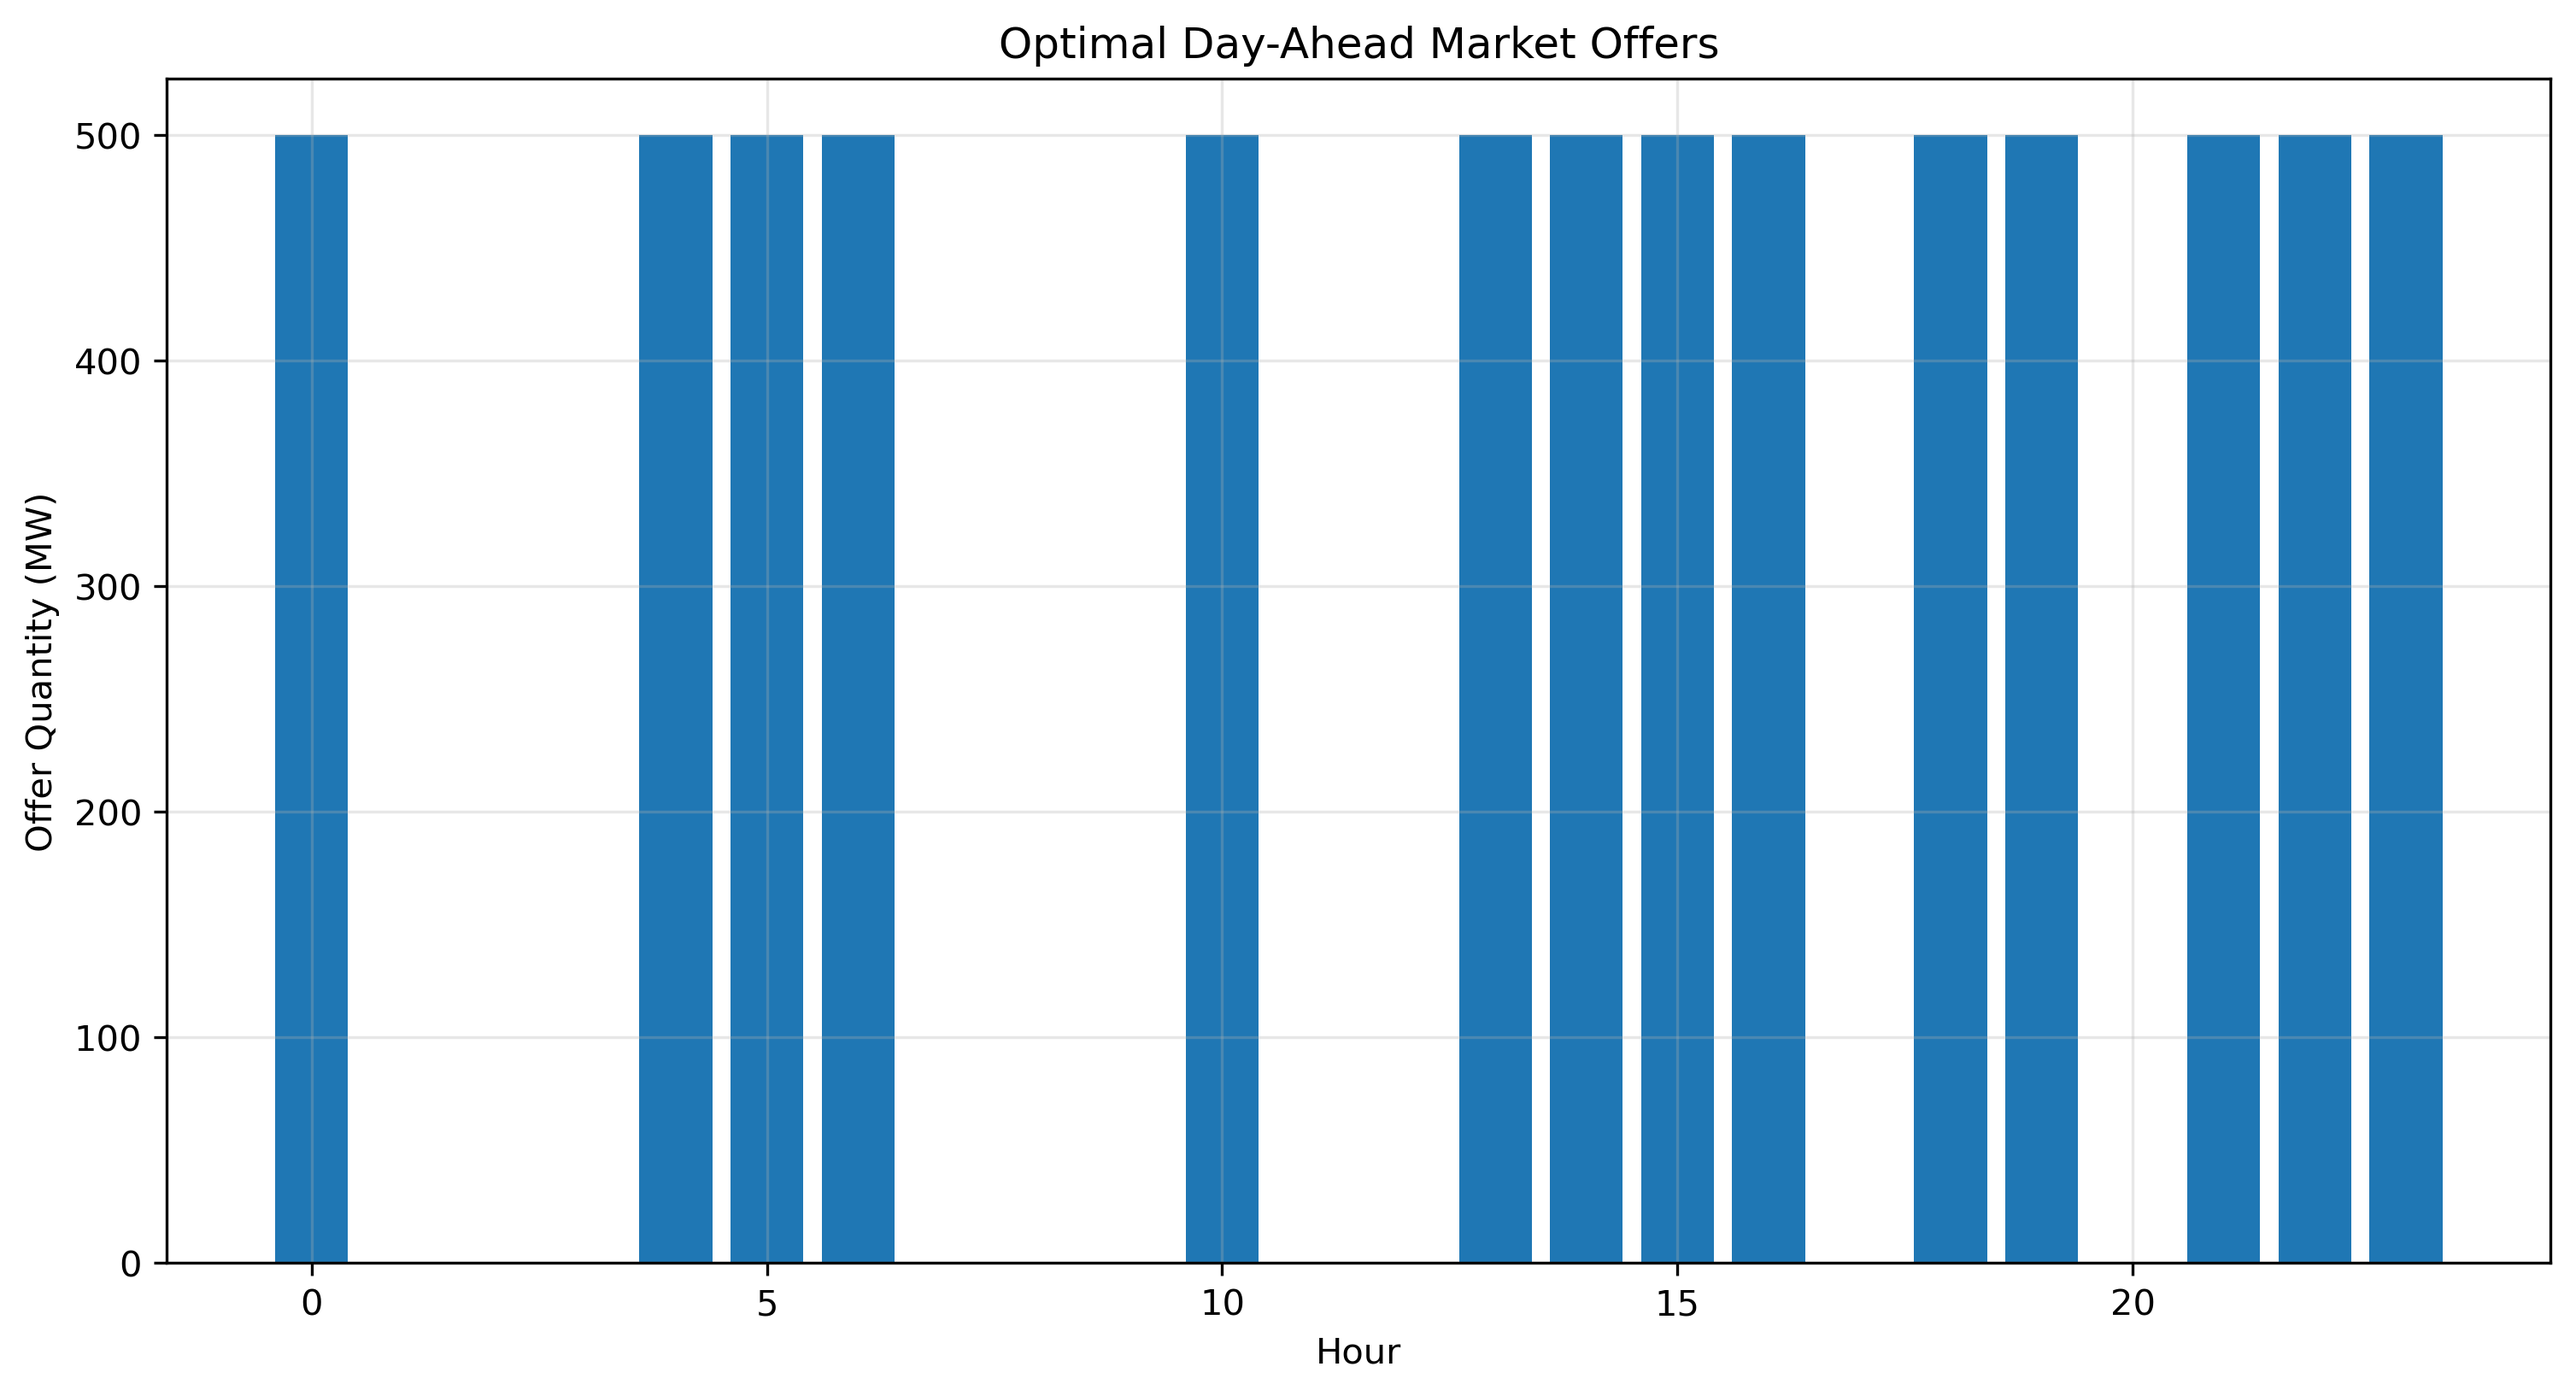
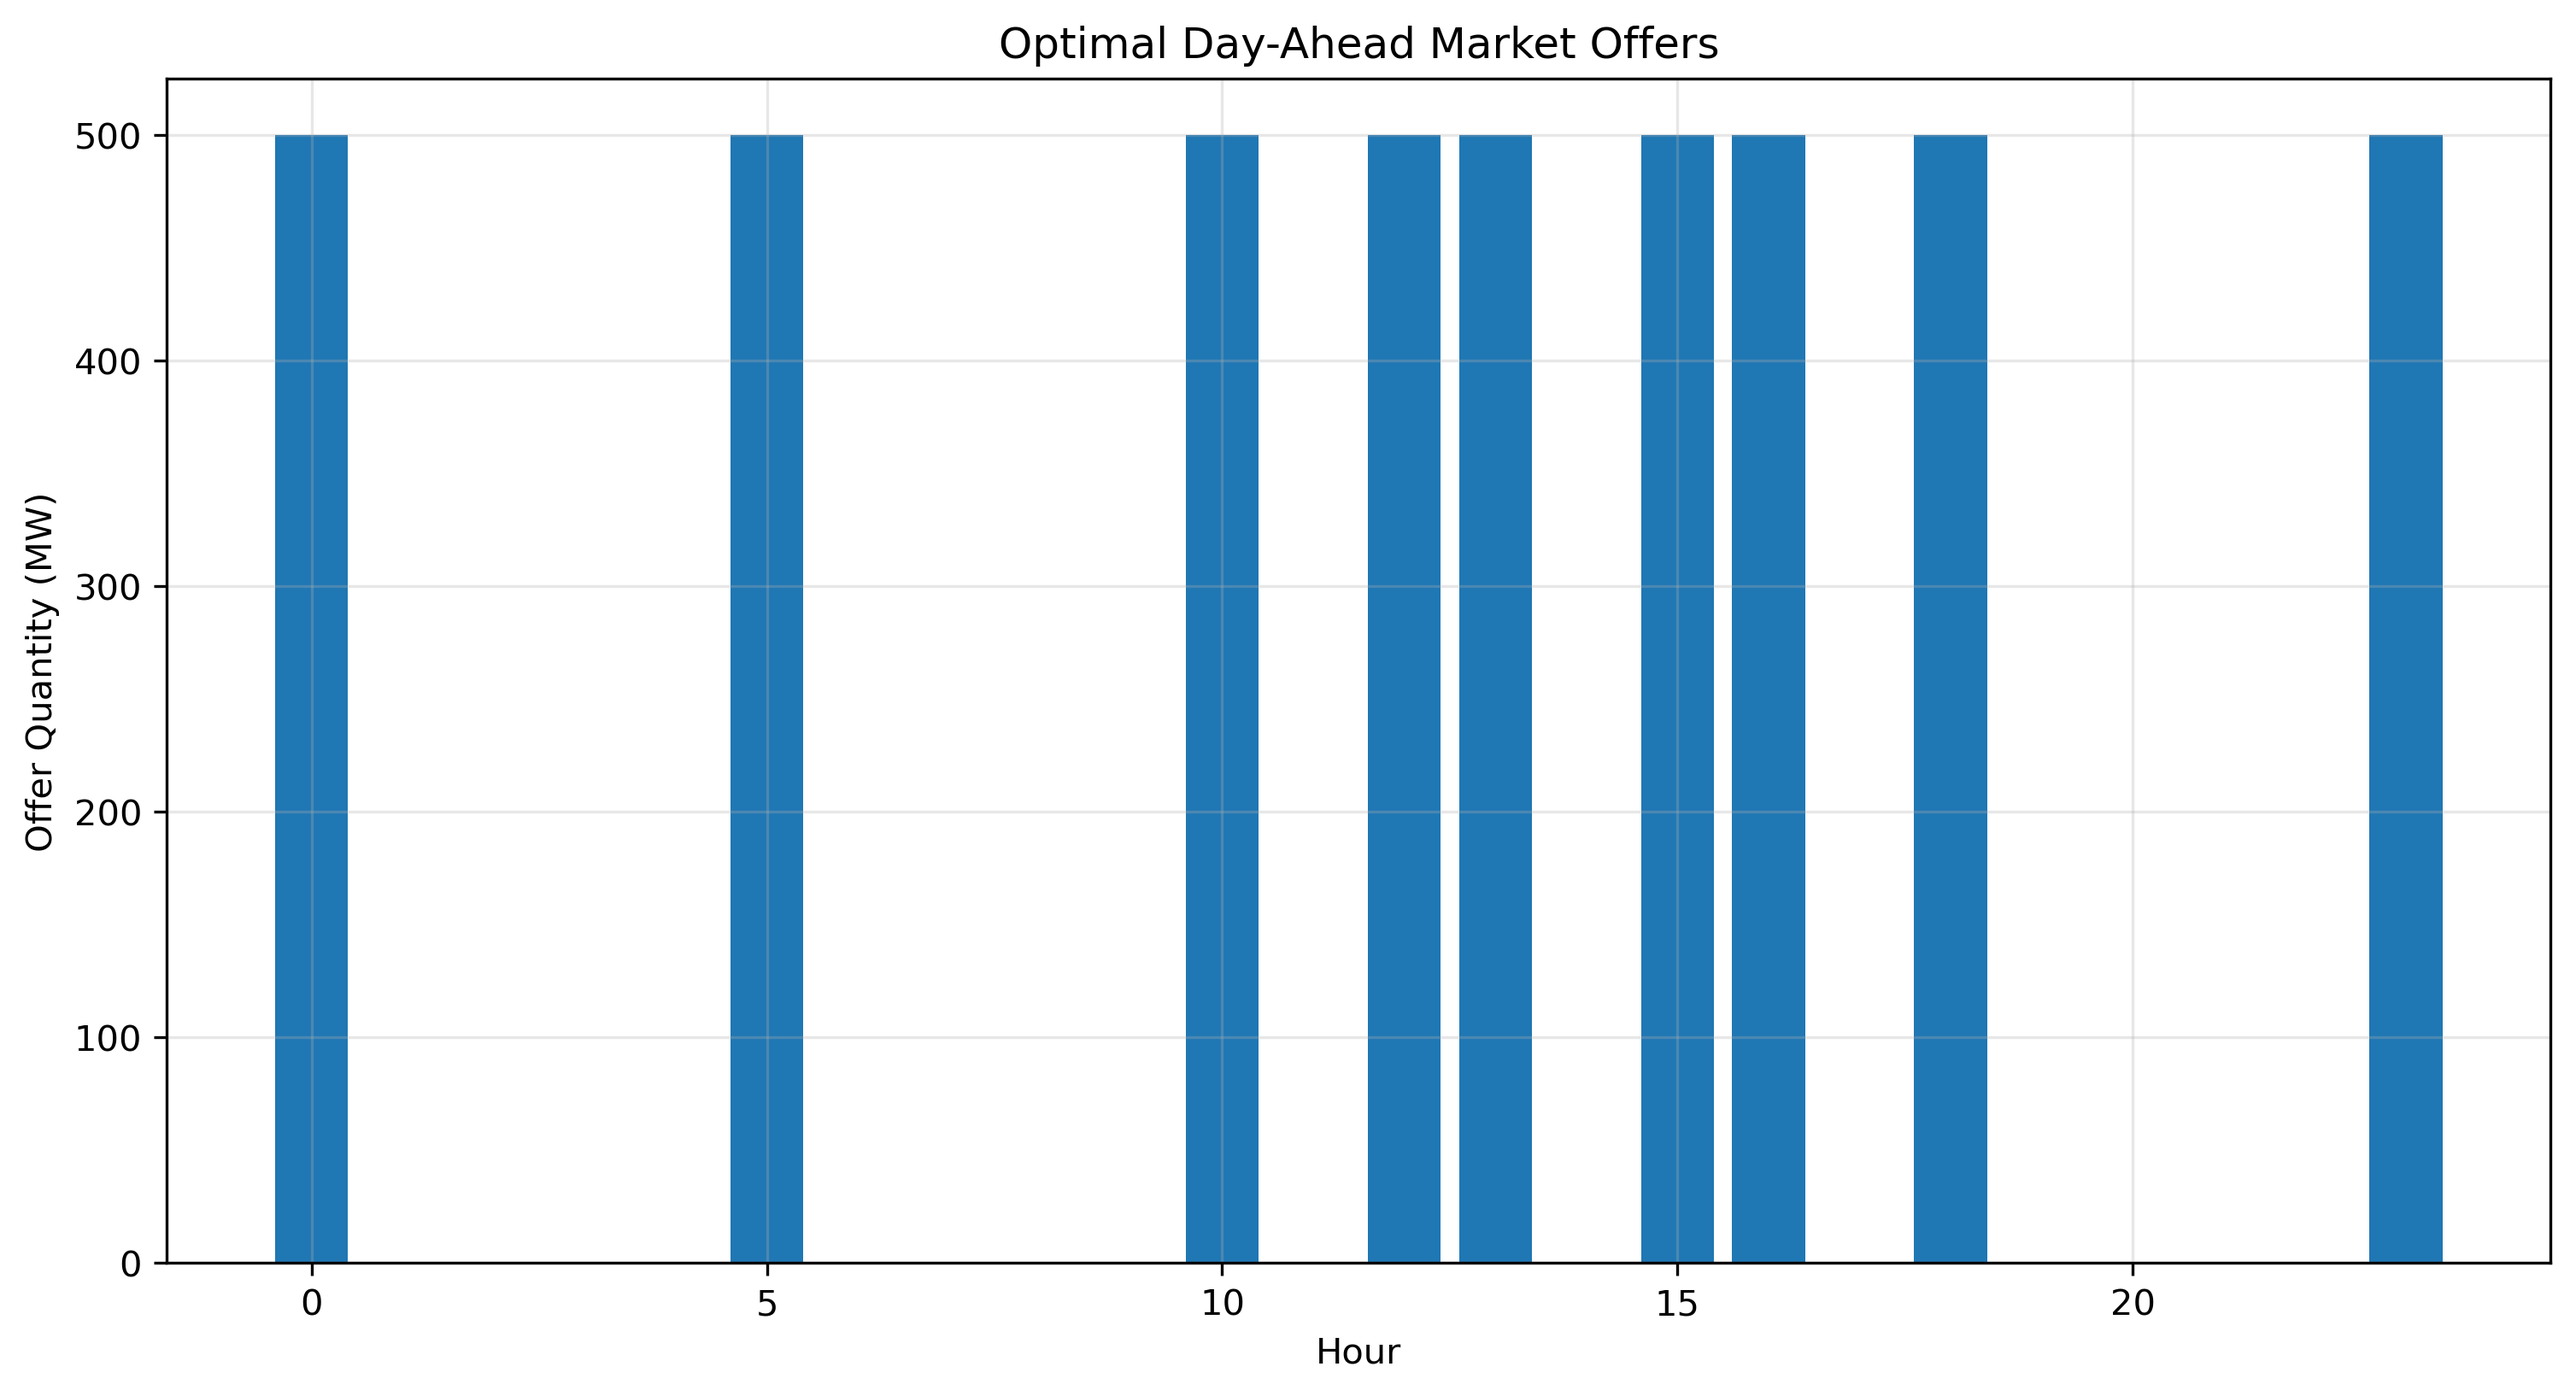
tilføjede en forkalring af resultater for step 1

diff --git a/scripts/main.py b/scripts/main.py
@@ -11,7 +11,7 @@ import pandas as pd
 
 # Local imports
 import data_and_scenario_generation.load_scenarios as load_scenarios
-import steps.solve_one_price_offering_strategy_1_1 as s1
+import steps.step1_solve_one_price_offering_strategy as s1
 import plot_functions as pf
 
 # Read in_sample and out of_sample scenarios
@@ -66,7 +66,7 @@ N_HOURS = in_sample_scenarios[1].shape[0]  # 24 hours
 # Each scenario is independent and equally likely (1/200) for in-sample scenarios
 
 # Solve the model
-optimal_offers, expected_profit, scenario_profits = s1.solve_one_price_offering_strategy(in_sample_scenarios,
+optimal_offers, expected_profit, scenario_profits = s1.solve_one_price_offering_strategy(out_sample_scenarios,
                                                                                          CAPACITY_WIND_FARM,
                                                                                          N_HOURS)
 
@@ -86,10 +86,6 @@ pf.plot_cumulative_distribution_func(scenario_profits, expected_profit)
 threshold = 1e-6  # MW, to account for potential numerical precision
 all_or_nothing = all(offer <= threshold or abs(offer - CAPACITY_WIND_FARM) <= threshold for offer in optimal_offers)
 print(f"All-or-nothing bidding strategy: {'Yes' if all_or_nothing else 'No'}")
-
-
-
-
 
 
 # %%  1.2 Offering Strategy Under a Two-Price Balancing Scheme
